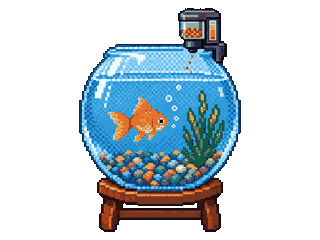
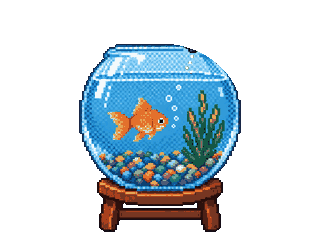
Put the fish under the waterline and take the feeder off the bowl
surfaceY meant the top of the glass rather than the top of the water, so the
fish could drift a quarter of the bowl into the air pocket. The bad value came
from gen_bg.py counting pale glass as water; the row it picked had two
qualifying pixels, both inside the feeder. Fixed the predicate as well as the
number, so the tool's report and the manifest now agree.

That exposed a double body inset in wanderTarget which would have flattened the
swim to a straight line, and a pet anchor set to the centre of the glass rather
than the water.

The feeder read as a big black square: the concept art paints one on the rim and
pantry.png covered it with a flat near-black slab. Both are gone, erased
geometrically as the opaque pixels outside the bowl's own glass ellipse. With no
feeder there is no in-scene gauge, so pantryRect is now optional and the pantry
reads in the hover caption.

Changed region(s): [[0.5312, 0.0292, 0.7188, 0.3208], [0.7188, 0.3208, 0.75, 0.35]]

diff --git a/src/species/fish/layout.ts b/src/species/fish/layout.ts
@@ -13,34 +13,38 @@ import type { Rect } from '../../sim/types';
 import type { WaterShape } from '../../render/types';
 
 /**
- * Ellipse approximation of the bowl's interior, least-squares fitted to the measured water band
- * (rms 0.58px over 147 rows) and rounded inward: the water spans y 44..190, x 115..190 on the top row,
- * x 81..238 at the widest (y ~104..128) and x 137..182 at the gravel. `surfaceY` is the bowl's inner
- * top, not the painted meniscus -- that is the Phase 0 semantic and behavior depends on it.
+ * Ellipse approximation of the bowl's interior, least-squares fitted to the measured water band and
+ * rounded inward: x 81..238 at the widest (y ~104..128), x 137..182 at the gravel.
+ *
+ * `surfaceY` is the painted WATERLINE, not the top of the glass. It used to be 44, which is the bowl's
+ * inner rim, and the fish could therefore drift a quarter of the bowl up into the empty air pocket and
+ * read as floating outside the tank. The art puts pale air behind glass down to row 72, the surface
+ * band at 73..78, the meniscus highlight at 79..80, and the first row of uniform water body at 81 —
+ * true in every column, since the band is drawn flat. The old value came from a measurement bug in
+ * tools/gen_bg.py: its water test accepted pale glass, and the row it picked had two qualifying pixels,
+ * both inside the feeder rather than the bowl.
+ *
+ * The ellipse itself is unchanged: refitting to water-only rows gives the same numbers (rms 0.58 either
+ * way) because the bowl is a circle, so the fit is driven by the wide middle rows.
  */
 export const BOWL_WATER_SHAPE: Readonly<WaterShape> = Object.freeze({
   cx: 160,
   cy: 116,
   rx: 78,
   ry: 80,
-  surfaceY: 44,
+  surfaceY: 80,
   floorY: 190,
 });
 
-/** Bounding rect of the measured water pixels (x 81..238, y 44..190). */
-export const BOWL_WATER_RECT: Readonly<Rect> = Object.freeze({ x: 81, y: 44, w: 158, h: 147 });
+/** Bounding rect of the water pixels below the waterline (x 81..238, y 81..190). */
+export const BOWL_WATER_RECT: Readonly<Rect> = Object.freeze({ x: 82, y: 80, w: 156, h: 111 });
 
-/**
- * Inner window of the clip-on feeder at the top-right rim; pantry_fill's opaque pixels lie inside it.
- * Found structurally: the region enclosed by the feeder's dark housing above the water surface.
- */
-export const BOWL_PANTRY_RECT: Readonly<Rect> = Object.freeze({ x: 180, y: 11, w: 36, h: 29 });
+/** Bounding box of the bowl's opaque pixels (hit region / hover). Equals bg.png's alpha bbox exactly.
+ * Shrank when the feeder was erased: its housing used to be the topmost opaque thing in the art. */
+export const BOWL_OPAQUE_RECT: Readonly<Rect> = Object.freeze({ x: 79, y: 44, w: 162, h: 188 });
 
-/** Bounding box of the bowl's opaque pixels (hit region / hover). Equals bg.png's alpha bbox exactly. */
-export const BOWL_OPAQUE_RECT: Readonly<Rect> = Object.freeze({ x: 79, y: 8, w: 162, h: 224 });
-
-/** Where the fish starts (body center), grid px. */
-export const BOWL_PET_ANCHOR: readonly [number, number] = Object.freeze([160, 120] as const);
+/** Where the fish starts (body centre), grid px: the middle of the WATER, not of the glass. */
+export const BOWL_PET_ANCHOR: readonly [number, number] = Object.freeze([160, 136] as const);
 
 /**
  * Collision box of the drawn fish, mirroring `sprites.fish.body` in the manifest. The behavior clamps

diff --git a/src/species/fish/behavior.ts b/src/species/fish/behavior.ts
@@ -84,7 +84,6 @@ export function createFishBehavior(): FishBehavior {
   const wanderTarget = (
     bounds: WaterBounds,
     halfW: number,
-    halfH: number,
     yMin: number,
     yMax: number,
     rng: () => number,
@@ -98,7 +97,11 @@ export function createFishBehavior(): FishBehavior {
     const cx = bounds.rect.x + bounds.rect.w / 2;
     const cy = (yMin + yMax) / 2;
     const ampX = Math.max(8, (bounds.rect.w / 2 - halfW) * 0.7);
-    const ampY = Math.max(4, ((yMax - yMin) / 2 - halfH) * 0.8);
+    // No second body inset here: yMin/yMax are already inset by halfH by the callers, so subtracting it
+    // again shrinks the sweep twice. It merely flattened the figure-eight while the swim band was the
+    // full glass height; once surfaceY became the real waterline the band is short enough that the
+    // double inset collapsed the vertical sweep to the 4px floor and the fish swam a straight line.
+    const ampY = Math.max(4, ((yMax - yMin) / 2) * 0.9);
     return {
       x: cx + ampX * Math.sin(phase) + wobbleX,
       y: cy + ampY * Math.sin(2 * phase) + wobbleY,
@@ -116,10 +119,11 @@ export function createFishBehavior(): FishBehavior {
 
     // ---- dead: belly-up at the surface, nothing else moves
     if (!input.alive) {
-      // Belly-up as close to the surface as the body box legally fits. Use the clamped y, not the raw
-      // target: surfaceY is the topmost water row, so `surfaceY + 12` puts the box's centre above the
-      // legal band and hangs the dorsal fin and tail outside the glass.
-      const c = bounds.clamp(x, bounds.surfaceY + 12, halfW, halfH);
+      // Belly-up as close to the waterline as the body box legally fits. Aim at the surface and let the
+      // clamp decide: any target above `surfaceY + halfH` resolves to the same row, so asking for the
+      // surface itself says what is meant. Taking the clamped y rather than the raw target is what keeps
+      // the dorsal fin and tail from hanging through the glass.
+      const c = bounds.clamp(x, bounds.surfaceY, halfW, halfH);
       x = c.x;
       y = c.y;
       eatTicks = 0;
@@ -187,7 +191,7 @@ export function createFishBehavior(): FishBehavior {
       phase += WANDER_RATE * 0.5;
       const yMin = bounds.surfaceY + halfH + 2;
       const yMax = bounds.surfaceY + (bounds.floorY - bounds.surfaceY) / 3;
-      const target = wanderTarget(bounds, halfW, halfH, yMin, yMax, rng);
+      const target = wanderTarget(bounds, halfW, yMin, yMax, rng);
       const t = moveToward(x, y, target.x, target.y, 1.5);
       nx = t.x;
       ny = t.y;
@@ -197,7 +201,7 @@ export function createFishBehavior(): FishBehavior {
       phase += WANDER_RATE;
       const yMin = bounds.surfaceY + halfH + 4;
       const yMax = bounds.floorY - halfH - 4;
-      const target = wanderTarget(bounds, halfW, halfH, yMin, yMax, rng);
+      const target = wanderTarget(bounds, halfW, yMin, yMax, rng);
       const t = moveToward(x, y, target.x, target.y, 3);
       nx = t.x;
       ny = t.y;

diff --git a/src/render/water.test.ts b/src/render/water.test.ts
@@ -21,8 +21,8 @@ function boxInside(x: number, y: number, hw = HW, hh = HH): boolean {
 
 describe('makeWaterBounds', () => {
   it('exposes the rect and the surface/floor rows', () => {
-    expect(bounds.rect).toEqual({ x: 82, y: 44, w: 156, h: 146 });
-    expect(bounds.surfaceY).toBe(44);
+    expect(bounds.rect).toEqual({ x: 82, y: 80, w: 156, h: 110 });
+    expect(bounds.surfaceY).toBe(80);
     expect(bounds.floorY).toBe(190);
   });
 
@@ -37,12 +37,15 @@ describe('makeWaterBounds', () => {
 
   it('inside() respects the ellipse and the surface/floor clip', () => {
     expect(bounds.inside(160, 120)).toBe(true);
-    expect(bounds.inside(160, 42)).toBe(false); // above the surface
+    expect(bounds.inside(160, 78)).toBe(false); // above the waterline, in the air pocket
     expect(bounds.inside(160, 192)).toBe(false); // below the floor
-    expect(bounds.inside(160, 44)).toBe(true); // surface row inside the ellipse
+    expect(bounds.inside(160, 80)).toBe(true); // the waterline row itself
     expect(bounds.inside(82, 116)).toBe(true); // left edge at the widest row
     expect(bounds.inside(80, 116)).toBe(false);
-    expect(bounds.inside(90, 44)).toBe(false); // surface row is narrower than the widest row
+    // The waterline row is narrower than the widest row, so a point that is inside at the bowl's waist
+    // is outside up here.
+    expect(bounds.inside(88, 80)).toBe(false);
+    expect(bounds.inside(95, 80)).toBe(true);
   });
 
   it('clamp() keeps the body box inside for a grid of inputs, returning integers', () => {
@@ -58,12 +61,15 @@ describe('makeWaterBounds', () => {
 
   it('clamp() is the identity for a point whose box already fits', () => {
     expect(bounds.clamp(160, 120, HW, HH)).toEqual({ x: 160, y: 120 });
-    expect(bounds.clamp(140, 90, HW, HH)).toEqual({ x: 140, y: 90 });
+    expect(bounds.clamp(140, 130, HW, HH)).toEqual({ x: 140, y: 130 });
   });
 
-  it('clamp() pushes a surface point down so the body top row stays under the surface', () => {
+  it('clamp() pushes a surface point down so the body top row stays under the waterline', () => {
+    // This is what stops the fish reading as floating outside the tank: aim anywhere above the water
+    // and the whole body box is pushed down until its top row is the waterline, never the glass rim.
     const c = bounds.clamp(160, 20, HW, HH);
-    expect(c.y).toBe(44 + HH);
+    expect(c.y).toBe(BOWL_WATER_SHAPE.surfaceY + HH);
+    expect(c.y - HH).toBe(BOWL_WATER_SHAPE.surfaceY);
     expect(boxInside(c.x, c.y)).toBe(true);
   });
 

diff --git a/src/render/bgArt.test.ts b/src/render/bgArt.test.ts
@@ -78,21 +78,30 @@ describe('bowl background art', () => {
     expect(extra.map((c) => `#${c.toString(16).padStart(6, '0')}`)).toEqual([]);
   });
 
-  it('pantryRect sits on the feeder window, above the water surface', () => {
-    // pantryRect is the bounding box of an irregular enclosed region, so a handful of its corner pixels
-    // fall outside the feeder's silhouette. The pantry layer paints an opaque box over pantryRect
-    // inflated by 2px, so those pixels are backed anyway; what this guards is the rect having wandered
-    // off the feeder entirely.
-    const r = bowl.pantryRect;
-    let opaque = 0;
-    for (let y = r.y; y < r.y + r.h; y += 1) {
-      for (let x = r.x; x < r.x + r.w; x += 1) {
-        if ((png.data[(y * png.width + x) * 4 + 3] ?? 0) > 0) opaque += 1;
+  it('has no feeder bolted to the rim any more', () => {
+    // The concept art paints a clip-on feeder onto the top-right rim, and it read as a big dark box.
+    // gen_bg.py erases it geometrically: it is the only opaque thing in that quadrant lying outside the
+    // bowl's own outer glass ellipse. Assert the result rather than the method, so any way of putting
+    // it back fails here.
+    const { cx, cy } = bowl.waterShape;
+    let strays = 0;
+    for (let y = 0; y < cy; y += 1) {
+      for (let x = cx; x < png.width; x += 1) {
+        if ((png.data[(y * png.width + x) * 4 + 3] ?? 0) === 0) continue;
+        // Outside the outer glass ellipse, measured from the art: rx 81, ry 72 about (160, 116).
+        if (((x - cx) / 82) ** 2 + ((y - cy) / 73) ** 2 > 1) strays += 1;
       }
     }
-    expect(opaque / (r.w * r.h)).toBeGreaterThan(0.98);
-    expect(r.y + r.h).toBeLessThanOrEqual(bowl.waterShape.surfaceY);
+    expect(strays, 'opaque pixels above and right of the bowl mean the feeder is back').toBe(0);
   });
+
+  it('declares no in-scene pantry gauge, so nothing crops one', () => {
+    // The gauge lived inside the feeder. With the feeder gone the pantry reads in the hover caption.
+    expect(bowl.pantryRect).toBeUndefined();
+    expect(bowl.layers.map((l) => l.name)).not.toContain('pantry');
+    expect(bowl.layers.map((l) => l.name)).not.toContain('pantry_fill');
+  });
+
 });
 
 describe('fish sprite art', () => {

diff --git a/src/species/fish/layout.test.ts b/src/species/fish/layout.test.ts
@@ -1,6 +1,6 @@
 import { readFileSync } from 'node:fs';
 import { describe, expect, it } from 'vitest';
-import { BOWL_OPAQUE_RECT, BOWL_PANTRY_RECT, BOWL_PET_ANCHOR, BOWL_WATER_RECT, BOWL_WATER_SHAPE, FISH_BODY } from './layout';
+import { BOWL_OPAQUE_RECT, BOWL_PET_ANCHOR, BOWL_WATER_RECT, BOWL_WATER_SHAPE, FISH_BODY } from './layout';
 
 // The contract requires assets/manifest.json and layout.ts to stay in sync; this test enforces it.
 const manifestUrl = new URL('../../../assets/manifest.json', import.meta.url);
@@ -15,7 +15,6 @@ describe('fish bowl layout', () => {
   it('matches assets/manifest.json', () => {
     expect(bowl).toBeDefined();
     expect(bowl?.['waterShape']).toEqual(BOWL_WATER_SHAPE);
-    expect(bowl?.['pantryRect']).toEqual(BOWL_PANTRY_RECT);
     expect(bowl?.['opaqueRect']).toEqual(BOWL_OPAQUE_RECT);
     expect(bowl?.['water']).toEqual(BOWL_WATER_RECT);
     expect(bowl?.['petAnchor']).toEqual([...BOWL_PET_ANCHOR]);
@@ -23,12 +22,13 @@ describe('fish bowl layout', () => {
     expect(manifest.sprites['fish']?.['body']).toEqual(FISH_BODY);
   });
 
-  it('keeps the pantry rect inside the opaque rect and above the water', () => {
-    const p = BOWL_PANTRY_RECT;
-    const o = BOWL_OPAQUE_RECT;
-    expect(p.x).toBeGreaterThanOrEqual(o.x);
-    expect(p.x + p.w).toBeLessThanOrEqual(o.x + o.w);
-    expect(p.y).toBeGreaterThanOrEqual(o.y);
-    expect(p.y + p.h).toBeLessThanOrEqual(BOWL_WATER_SHAPE.surfaceY);
+  it('puts the waterline below the glass rim, so the fish cannot swim in the air pocket', () => {
+    // The whole point of surfaceY: it is the painted waterline, not the top of the bowl. When it was the
+    // rim the fish could drift a quarter of the bowl above the water and read as outside the tank.
+    expect(BOWL_WATER_SHAPE.surfaceY).toBeGreaterThan(BOWL_OPAQUE_RECT.y);
+    expect(BOWL_WATER_SHAPE.floorY).toBeLessThanOrEqual(BOWL_OPAQUE_RECT.y + BOWL_OPAQUE_RECT.h);
+    // And the pet starts in the middle of the water, not the middle of the glass.
+    const waterCentre = (BOWL_WATER_SHAPE.surfaceY + BOWL_WATER_SHAPE.floorY) / 2;
+    expect(Math.abs(BOWL_PET_ANCHOR[1] - waterCentre)).toBeLessThanOrEqual(1);
   });
 });

diff --git a/src/render/food.ts b/src/render/food.ts
@@ -12,6 +12,8 @@ import type { Rng } from '../sim/types';
 import type { WaterBounds, WaterShape } from './types';
 
 export const FLAKES_PER_FEED = 6;
+/** Flake spawn spread, as a fraction of the water's half-width at the spawn row. */
+const SPAWN_SPREAD = 0.45;
 /** Settled flakes dissolve after this many 8 fps steps (30 s). */
 const DISSOLVE_STEPS = 240;
 
@@ -70,7 +72,11 @@ export function createFlakes(shape: WaterShape, bounds: WaterBounds): Flakes {
     container,
     feed(rng) {
       const y = bounds.surfaceY + 2;
-      const hw = Math.max(12, halfWidthAt(y + 4) - 12);
+      // A fraction of the surface half-width, not a fixed inset. The old `- 12` was tuned when the
+      // spawn row was the narrow top of the glass; now that it is the real waterline, where the bowl is
+      // near its widest, subtracting a constant scattered the flakes almost wall to wall. This keeps
+      // them a handful dropped into the middle at any bowl size.
+      const hw = Math.max(12, halfWidthAt(y + 4) * SPAWN_SPREAD);
       for (let i = 0; i < FLAKES_PER_FEED; i += 1) {
         const sprite = new Sprite({ texture: tex });
         container.addChild(sprite);

diff --git a/src/render/placeholderStamps.test.ts b/src/render/placeholderStamps.test.ts
@@ -111,18 +111,11 @@ describe('placeholder habitat layers', () => {
   // visible), and the purely decorative slots are empty: a labelled stand-in drawn over real art hides
   // the very thing it stands in for. `tools/gen_placeholders.py --labeled` restores them for debugging.
   const EMPTY_BY_DESIGN = new Set(['decor_back', 'decor_front', 'glass']);
-  const FUNCTIONAL_ONLY = new Set(['medium', 'pantry']);
+  const FUNCTIONAL_ONLY = new Set(['medium']);
 
   for (const layer of bowl.layers) {
     const file = layer.file;
     if (!file || layer.name === 'bg') continue; // bg is real derived art, not placeholder geometry
-    if (layer.name === 'pantry_fill') {
-      it('pantry_fill: too small for the word, so PH in the stamp colour inside pantryRect', () => {
-        const png = load(file);
-        expect(findWord(png, 'PH', bowl.pantryRect, scale, STAMP)).not.toBeNull();
-      });
-      continue;
-    }
     if (EMPTY_BY_DESIGN.has(layer.name)) {
       it(`${layer.name}: empty, because bg already draws it`, () => {
         const png = load(file);

diff --git a/src/render/layers.ts b/src/render/layers.ts
@@ -105,6 +105,7 @@ export function buildLayers(habitat: ManifestHabitat, textures: ReadonlyMap<stri
         break;
       case 'pantry_fill': {
         const r = habitat.pantryRect;
+        if (!r) break; // no in-scene gauge in this habitat
         sprite.texture = new Texture({
           source: sprite.texture.source,
           frame: new Rectangle(r.x, r.y, r.w, r.h),
@@ -152,8 +153,8 @@ export function buildLayers(habitat: ManifestHabitat, textures: ReadonlyMap<stri
   let nightClock = 0;
 
   const applyPantry = (): void => {
-    if (!pantryFill) return;
     const r = habitat.pantryRect;
+    if (!pantryFill || !r) return;
     const top = r.y + Math.round(r.h * (1 - pantryFraction));
     const h = r.y + r.h - top;
     const frame = pantryFill.texture.frame;

diff --git a/src/render/types.ts b/src/render/types.ts
@@ -46,8 +46,12 @@ export interface ManifestHabitat {
   /** Bounding rect of the water. */
   water: Rect;
   waterShape: WaterShape;
-  /** Non-transparent pixels of pantry_fill.png lie inside this rect; the fill is cropped from the bottom up. */
-  pantryRect: Rect;
+  /**
+   * Where an in-scene food gauge lives: non-transparent pixels of pantry_fill.png lie inside this rect
+   * and the fill is cropped from the bottom up. Optional, because a habitat need not show one — the
+   * bowl's clip-on feeder was removed and its pantry level now reads only in the hover caption.
+   */
+  pantryRect?: Rect;
   petAnchor: [number, number];
   /** Bounding rect of the habitat's opaque pixels; used for hit regions and hover. */
   opaqueRect: Rect;

diff --git a/src/species/fish/behavior.test.ts b/src/species/fish/behavior.test.ts
@@ -222,7 +222,10 @@ describe('fish behavior', () => {
     for (let i = 0; i < 300; i += 1) b.step(input({}, seeded(8)));
     b.reset();
     const o = b.step(input());
+    // Derived, not hardcoded: the centre of the water band, which moved when surfaceY stopped meaning
+    // the top of the glass. A literal here is what went stale the first time.
+    const waterCentreY = (bounds.surfaceY + bounds.floorY) / 2;
     expect(Math.abs(o.x - 162)).toBeLessThanOrEqual(4);
-    expect(Math.abs(o.y - 120)).toBeLessThanOrEqual(6);
+    expect(Math.abs(o.y - waterCentreY)).toBeLessThanOrEqual(6);
   });
 });

diff --git a/src/render/manifest.test.ts b/src/render/manifest.test.ts
@@ -12,7 +12,7 @@ describe('parseManifest', () => {
     expect(bowl).toBeDefined();
     expect(bowl?.grid).toEqual([320, 240]);
     expect(bowl?.layers.map((l) => l.name)).toEqual([
-      'bg', 'memorial', 'medium', 'decor_back', 'pantry', 'pantry_fill', 'pet', 'food', 'decor_front', 'glass', 'fx', 'night', 'shadow',
+      'bg', 'memorial', 'medium', 'decor_back', 'pet', 'food', 'decor_front', 'glass', 'fx', 'night', 'shadow',
     ]);
     const fish = m.sprites['fish'];
     expect(fish?.frame).toEqual([160, 160]);

diff --git a/src/render/manifest.ts b/src/render/manifest.ts
@@ -108,7 +108,7 @@ function habitat(v: unknown, path: string): ManifestHabitat {
       surfaceY: int(ws['surfaceY'], `${path}.waterShape.surfaceY`),
       floorY: int(ws['floorY'], `${path}.waterShape.floorY`),
     },
-    pantryRect: rect(v['pantryRect'], `${path}.pantryRect`),
+    ...(v['pantryRect'] === undefined ? {} : { pantryRect: rect(v['pantryRect'], `${path}.pantryRect`) }),
     petAnchor: pair(v['petAnchor'], `${path}.petAnchor`),
     opaqueRect: rect(v['opaqueRect'], `${path}.opaqueRect`),
   };
